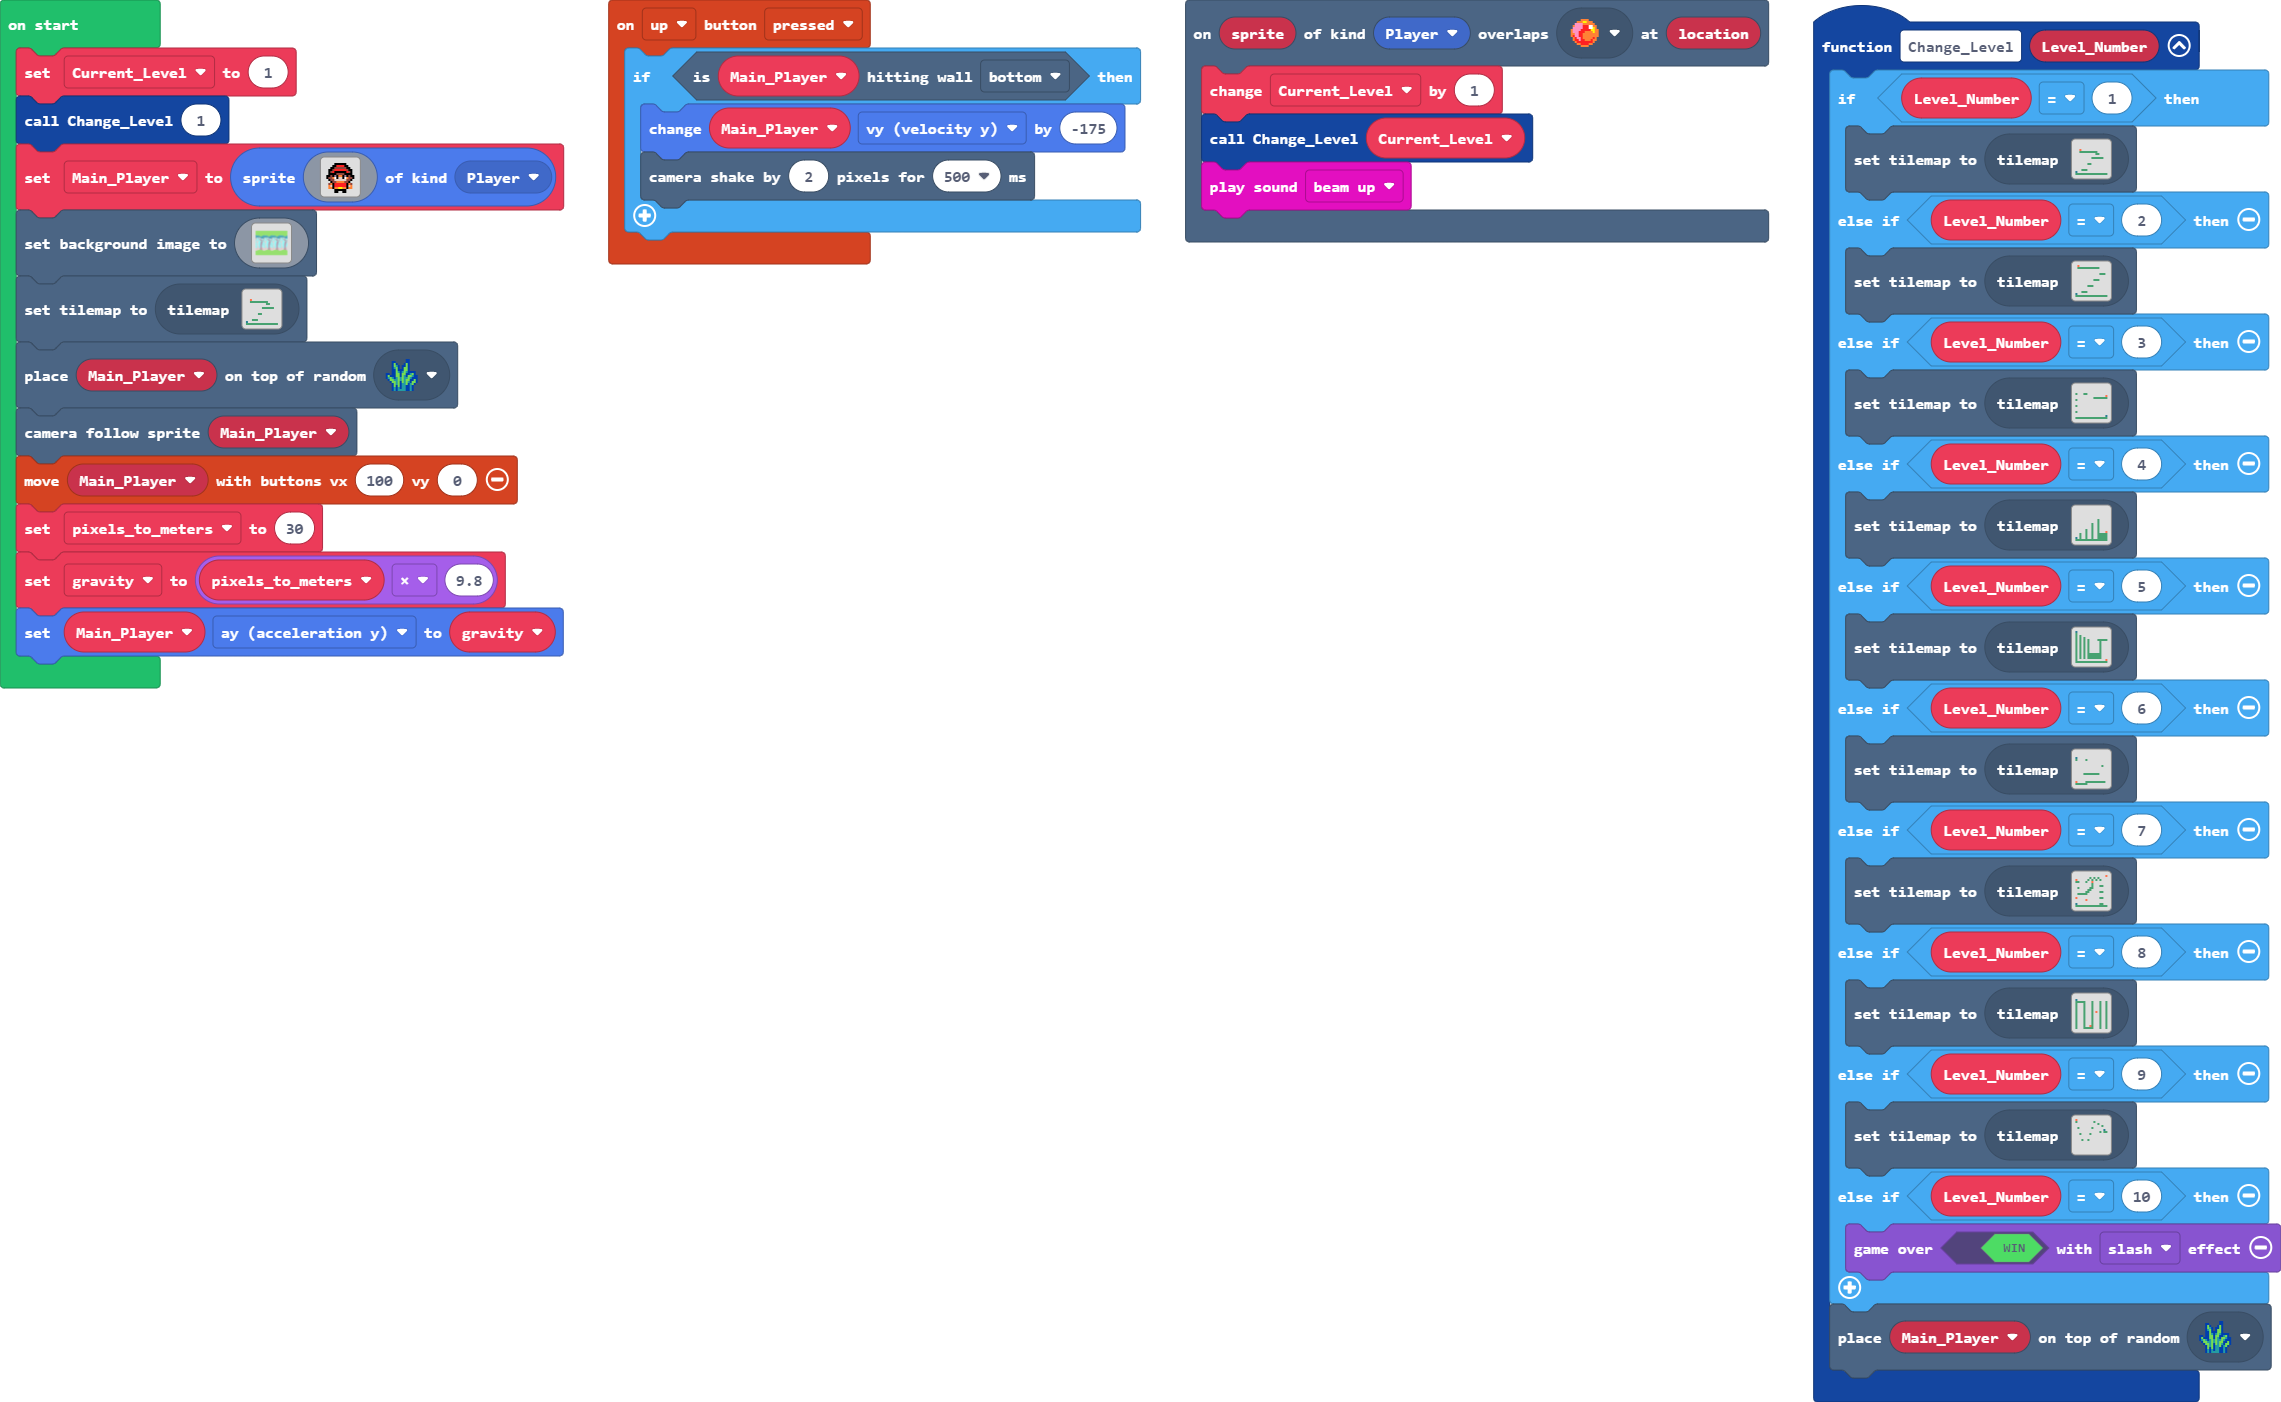
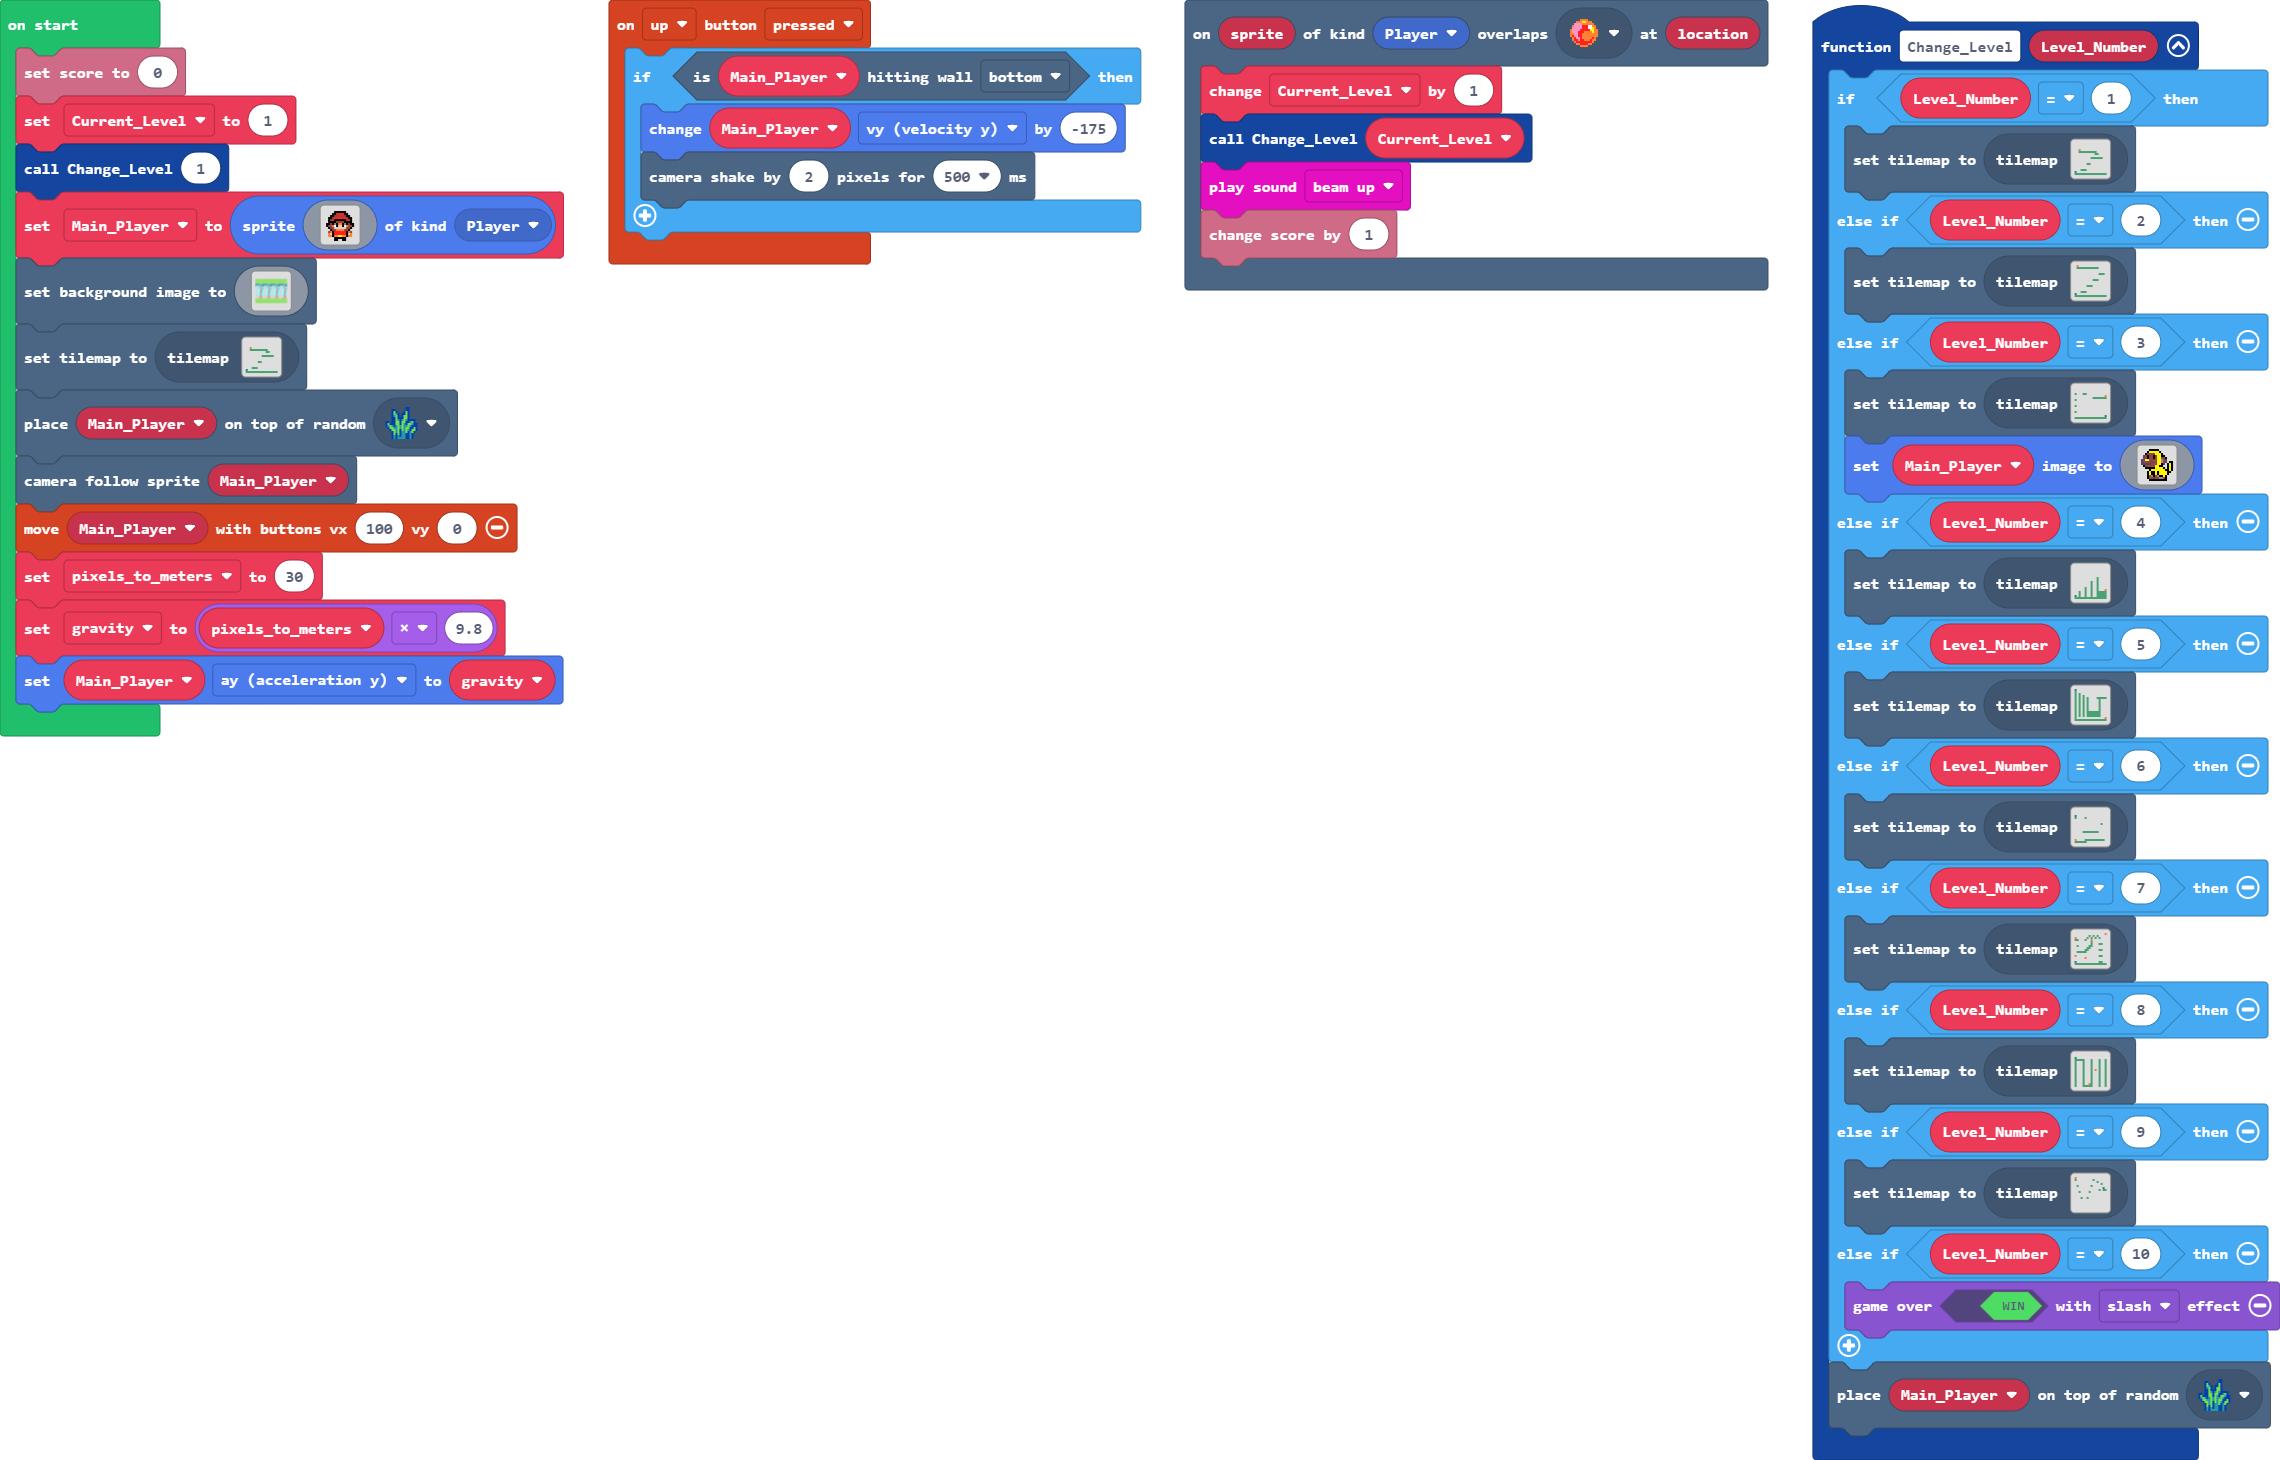
still coding it but making it so every 2 levels u get a new character

Changed region(s): [[0.0, 0.0, 0.7785, 0.5214], [0.8096, 0.0, 1.0, 0.9815]]

diff --git a/tilemap.g.ts b/tilemap.g.ts
@@ -176,25 +176,6 @@ namespace myTiles {
 . . . . . . . . . . . . . . . . 
 . . . . . . . . . . . . . . . . 
 `, [myTiles.transparency16], TileScale.Sixteen);
-            case "level7":
-            case "level7":return tiles.createTilemap(hex`1000100000000000000000000000000000000000000000000000000000000000000000000000000000000000000000000000000001000000010100000000000000000000000000000000000000000000000000020000000000000000000101010101010101000000000000000000000000000000000000000000000000000000000000000000000000000000000000000000000001000000000000000000000000000000000000000000000000000000000000000000000000000000000000000000000001000000000000000000000000000000000000000000000000000000000000000000000000000000000000000000000301010101010101010101010101010101`, img`
-. . . . . . . . . . . . . . . . 
-. . . . . . . . . . . . . . . . 
-. . . . . . . . . . . . . . . . 
-2 . . . 2 2 . . . . . . . . . . 
-. . . . . . . . . . . . . . . . 
-. . . . . . . . . 2 . 2 . 2 . 2 
-2 . . . . . . . . . . . . . . . 
-. . . . . . . . . . . . . . . . 
-. . . . . . . . . . . . . . . . 
-2 . . . . . . . . . . . . . . . 
-. . . . . . . . . . . . . . . . 
-. . . . . . . . . . . . . . . . 
-2 . . . . . . . . . . . . . . . 
-. . . . . . . . . . . . . . . . 
-. . . . . . . . . . . . . . . . 
-2 2 2 2 2 2 2 2 2 2 2 2 2 2 2 2 
-`, [myTiles.transparency16,sprites.builtin.forestTiles0,sprites.dungeon.collectibleRedCrystal,sprites.swamp.swampTile3], TileScale.Sixteen);
             case "level12":
             case "level12":return tiles.createTilemap(hex`1000100000000000000000000000000000000000000000000000000000000000000000000000000000000000000000000000000000000000000000000000000000000000000000000000000000000000000000000000000000000000000000000000000000000000000000000000000000000000000000000000000000000000000000000000000000000000000000000000000000000000000000000000000000000000000000000000000000000000000000000000000000000000000000000000000000000000000000000000000000000000000000000000000000000000000000000000000000000000000000000000000000000000000000000000000000000000`, img`
 . . . . . . . . . . . . . . . . 
@@ -347,6 +328,25 @@ namespace myTiles {
 . . . . . . . . . . . . . . . . 
 . . . . . . . . . . . . . . . . 
 `, [myTiles.transparency16], TileScale.Sixteen);
+            case "level7":
+            case "level7":return tiles.createTilemap(hex`1000100000000000000000000000000000000000000000000000000000000000000000000000000000000000000000000000000001000000010100000000000000000000000000000000000000000000000000020000000000000000000101010101010101000000000000000000000000000000000000000000000000000000000000000000000000000000000000000000000001000000000000000000000000000000000000000000000000000000000000000000000000000000000000000000000001000000000000000000000000000000000000000000000000000000000000000000000000000000000000000000000301010101010101010101010101010101`, img`
+. . . . . . . . . . . . . . . . 
+. . . . . . . . . . . . . . . . 
+. . . . . . . . . . . . . . . . 
+2 . . . 2 2 . . . . . . . . . . 
+. . . . . . . . . . . . . . . . 
+. . . . . . . . . 2 . 2 . 2 . 2 
+2 . . . . . . . . . . . . . . . 
+. . . . . . . . . . . . . . . . 
+. . . . . . . . . . . . . . . . 
+2 . . . . . . . . . . . . . . . 
+. . . . . . . . . . . . . . . . 
+. . . . . . . . . . . . . . . . 
+2 . . . . . . . . . . . . . . . 
+. . . . . . . . . . . . . . . . 
+. . . . . . . . . . . . . . . . 
+2 2 2 2 2 2 2 2 2 2 2 2 2 2 2 2 
+`, [myTiles.transparency16,sprites.builtin.forestTiles0,sprites.dungeon.collectibleRedCrystal,sprites.swamp.swampTile3], TileScale.Sixteen);
         }
         return null;
     })

diff --git a/main.ts b/main.ts
@@ -11,6 +11,24 @@ function Change_Level (Level_Number: number) {
         tiles.setCurrentTilemap(tilemap`level3`)
     } else if (Level_Number == 3) {
         tiles.setCurrentTilemap(tilemap`level7`)
+        Main_Player.setImage(img`
+            . . . . f f f f f . . . . . . . 
+            . . . f 5 5 5 5 5 f . . . . . . 
+            . . f e e e e 5 5 5 f . . . . . 
+            . c e f e e f e 5 5 f f . . . . 
+            . c e f e e f e 5 5 e e f . . . 
+            c e 5 5 e e e e 5 5 b e c . . . 
+            c e e e e c e e 5 5 b e c . f f 
+            c c c c c e e e 5 5 f c . f 5 f 
+            . f e e e e e 5 5 f f . . f 5 f 
+            . . f f f f f 5 5 5 5 f . f 5 f 
+            . . . . f 5 5 5 5 5 5 5 f f 5 f 
+            . . . f 5 f f 5 f 5 5 5 5 f f . 
+            . . . f 5 f f 5 f 5 5 5 5 f . . 
+            . . . f e b f e b f f 5 f . . . 
+            . . . f e e c e e b b e f . . . 
+            . . . . f f f f f f f f f . . . 
+            `)
     } else if (Level_Number == 4) {
         tiles.setCurrentTilemap(tilemap`level11`)
     } else if (Level_Number == 5) {
@@ -32,9 +50,11 @@ scene.onOverlapTile(SpriteKind.Player, sprites.dungeon.collectibleRedCrystal, fu
     Current_Level += 1
     Change_Level(Current_Level)
     music.beamUp.play()
+    info.changeScoreBy(1)
 })
 let Main_Player: Sprite = null
 let Current_Level = 0
+info.setScore(0)
 Current_Level = 1
 Change_Level(1)
 Main_Player = sprites.create(assets.image`Player`, SpriteKind.Player)
